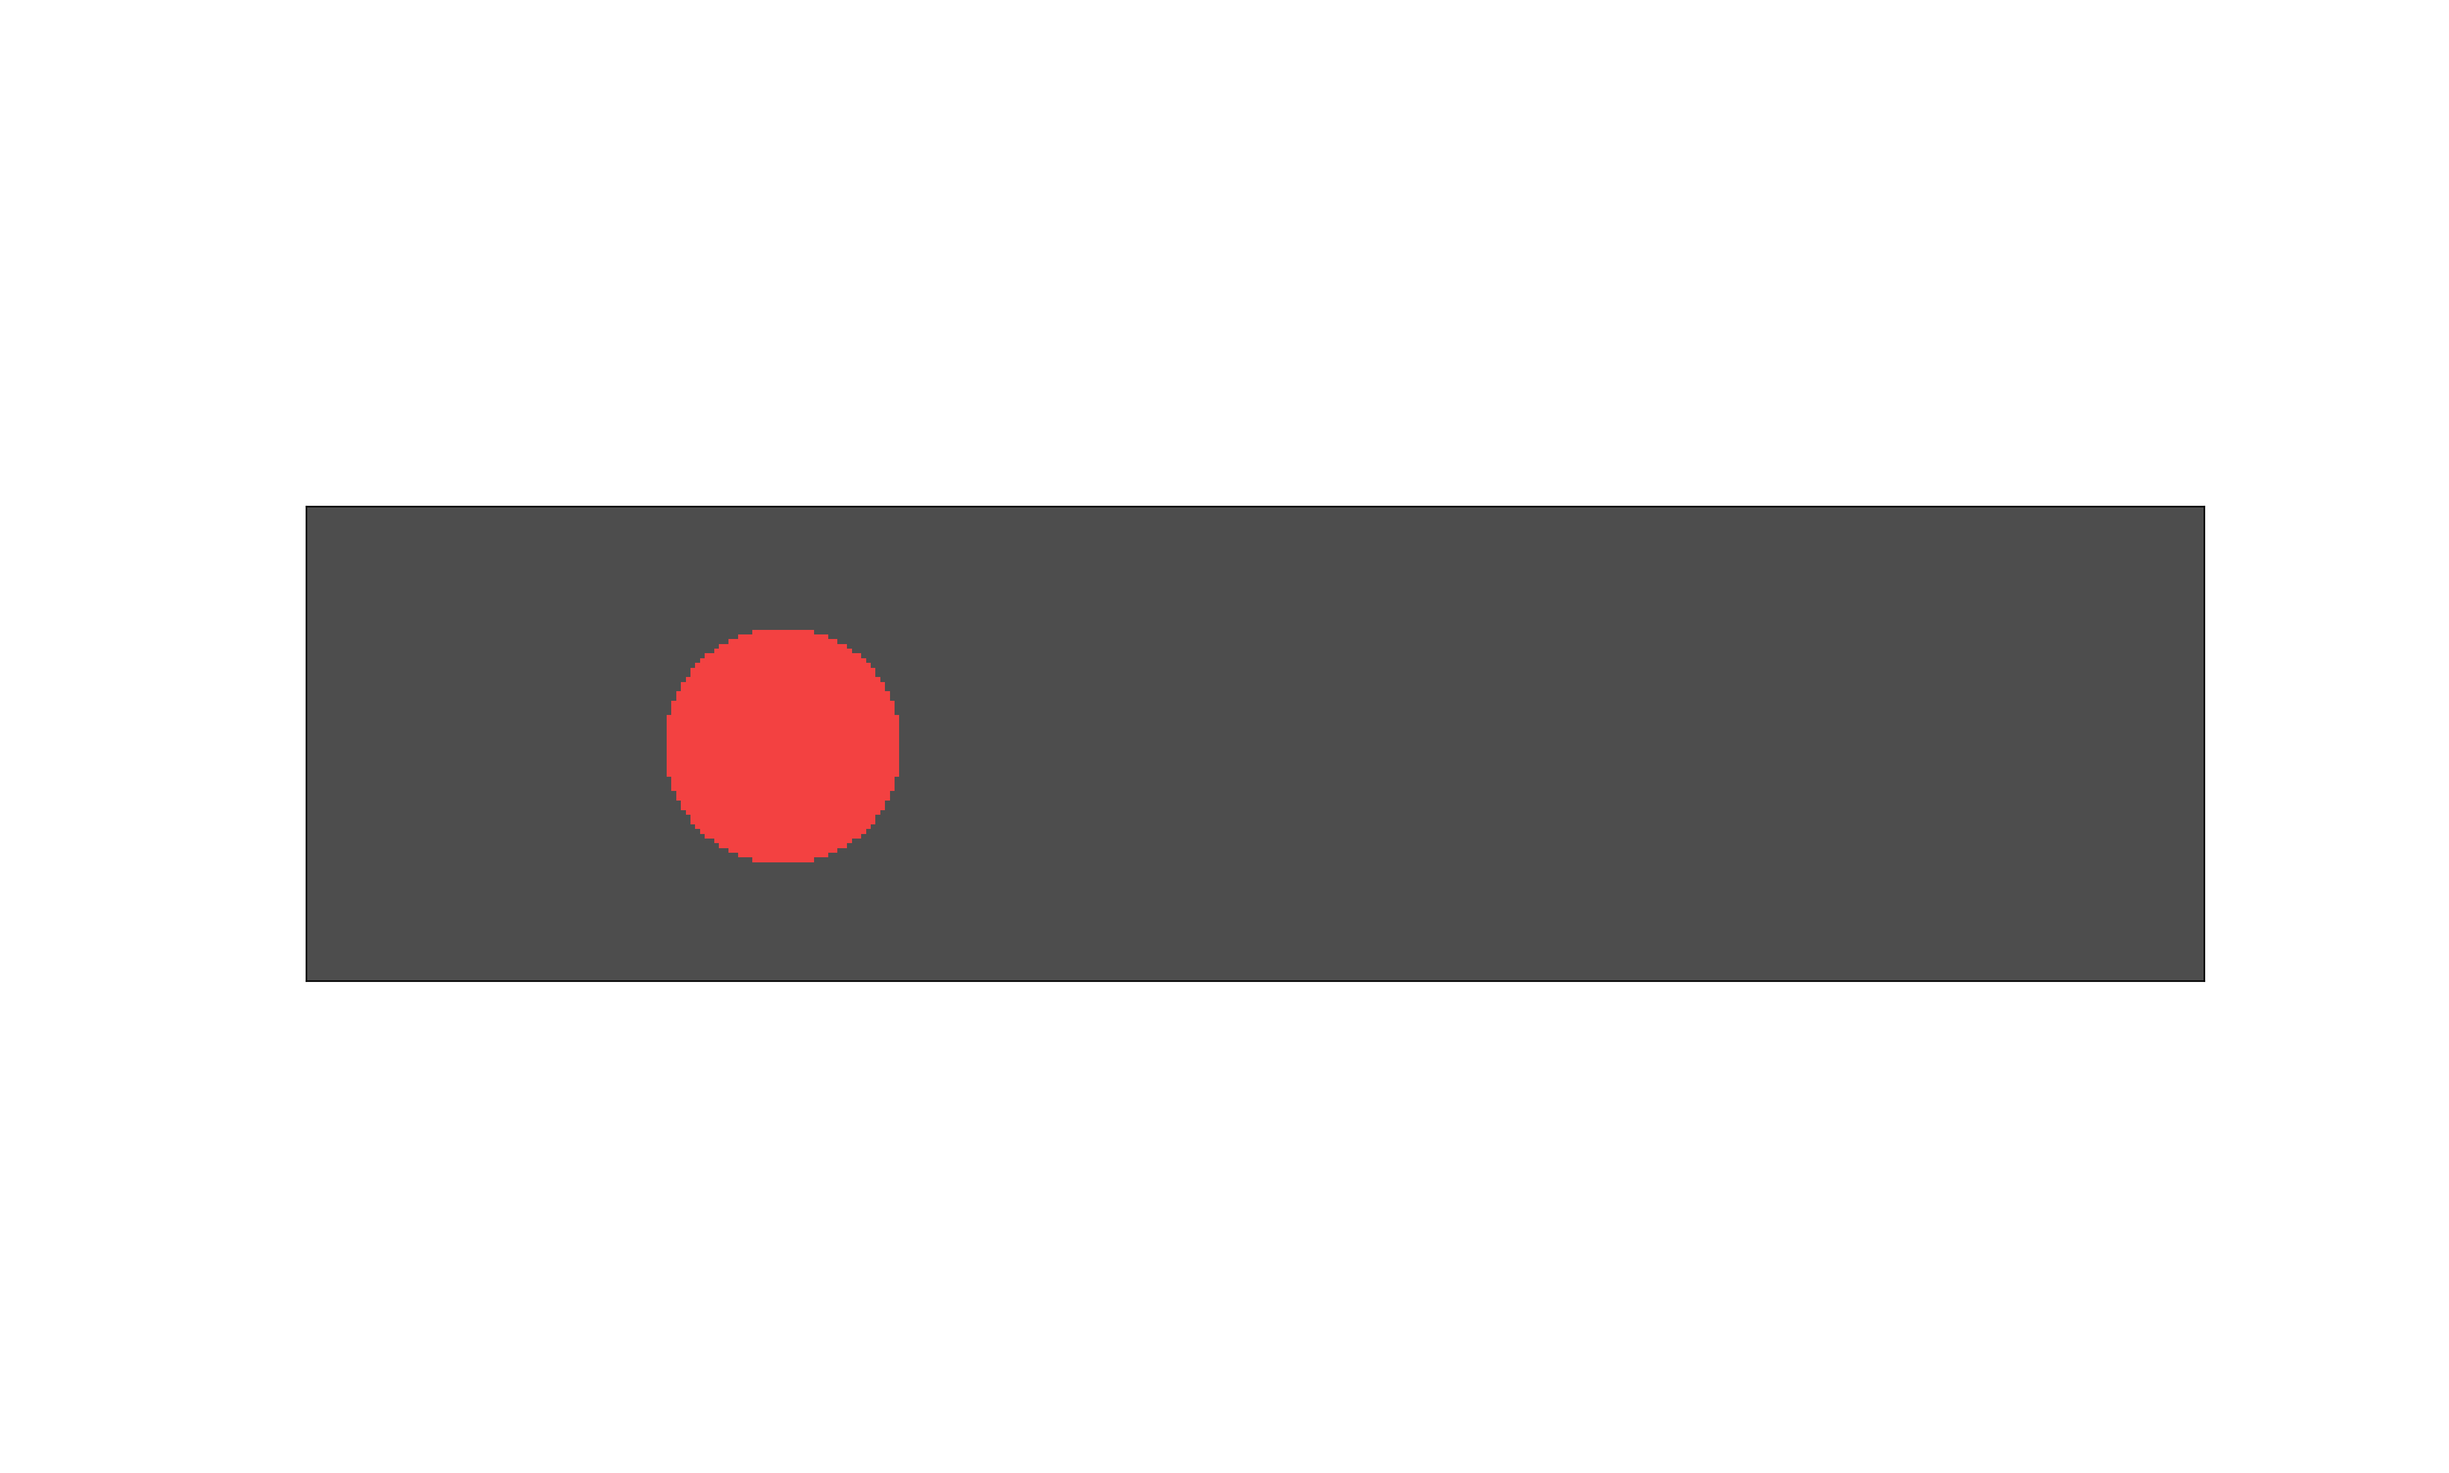
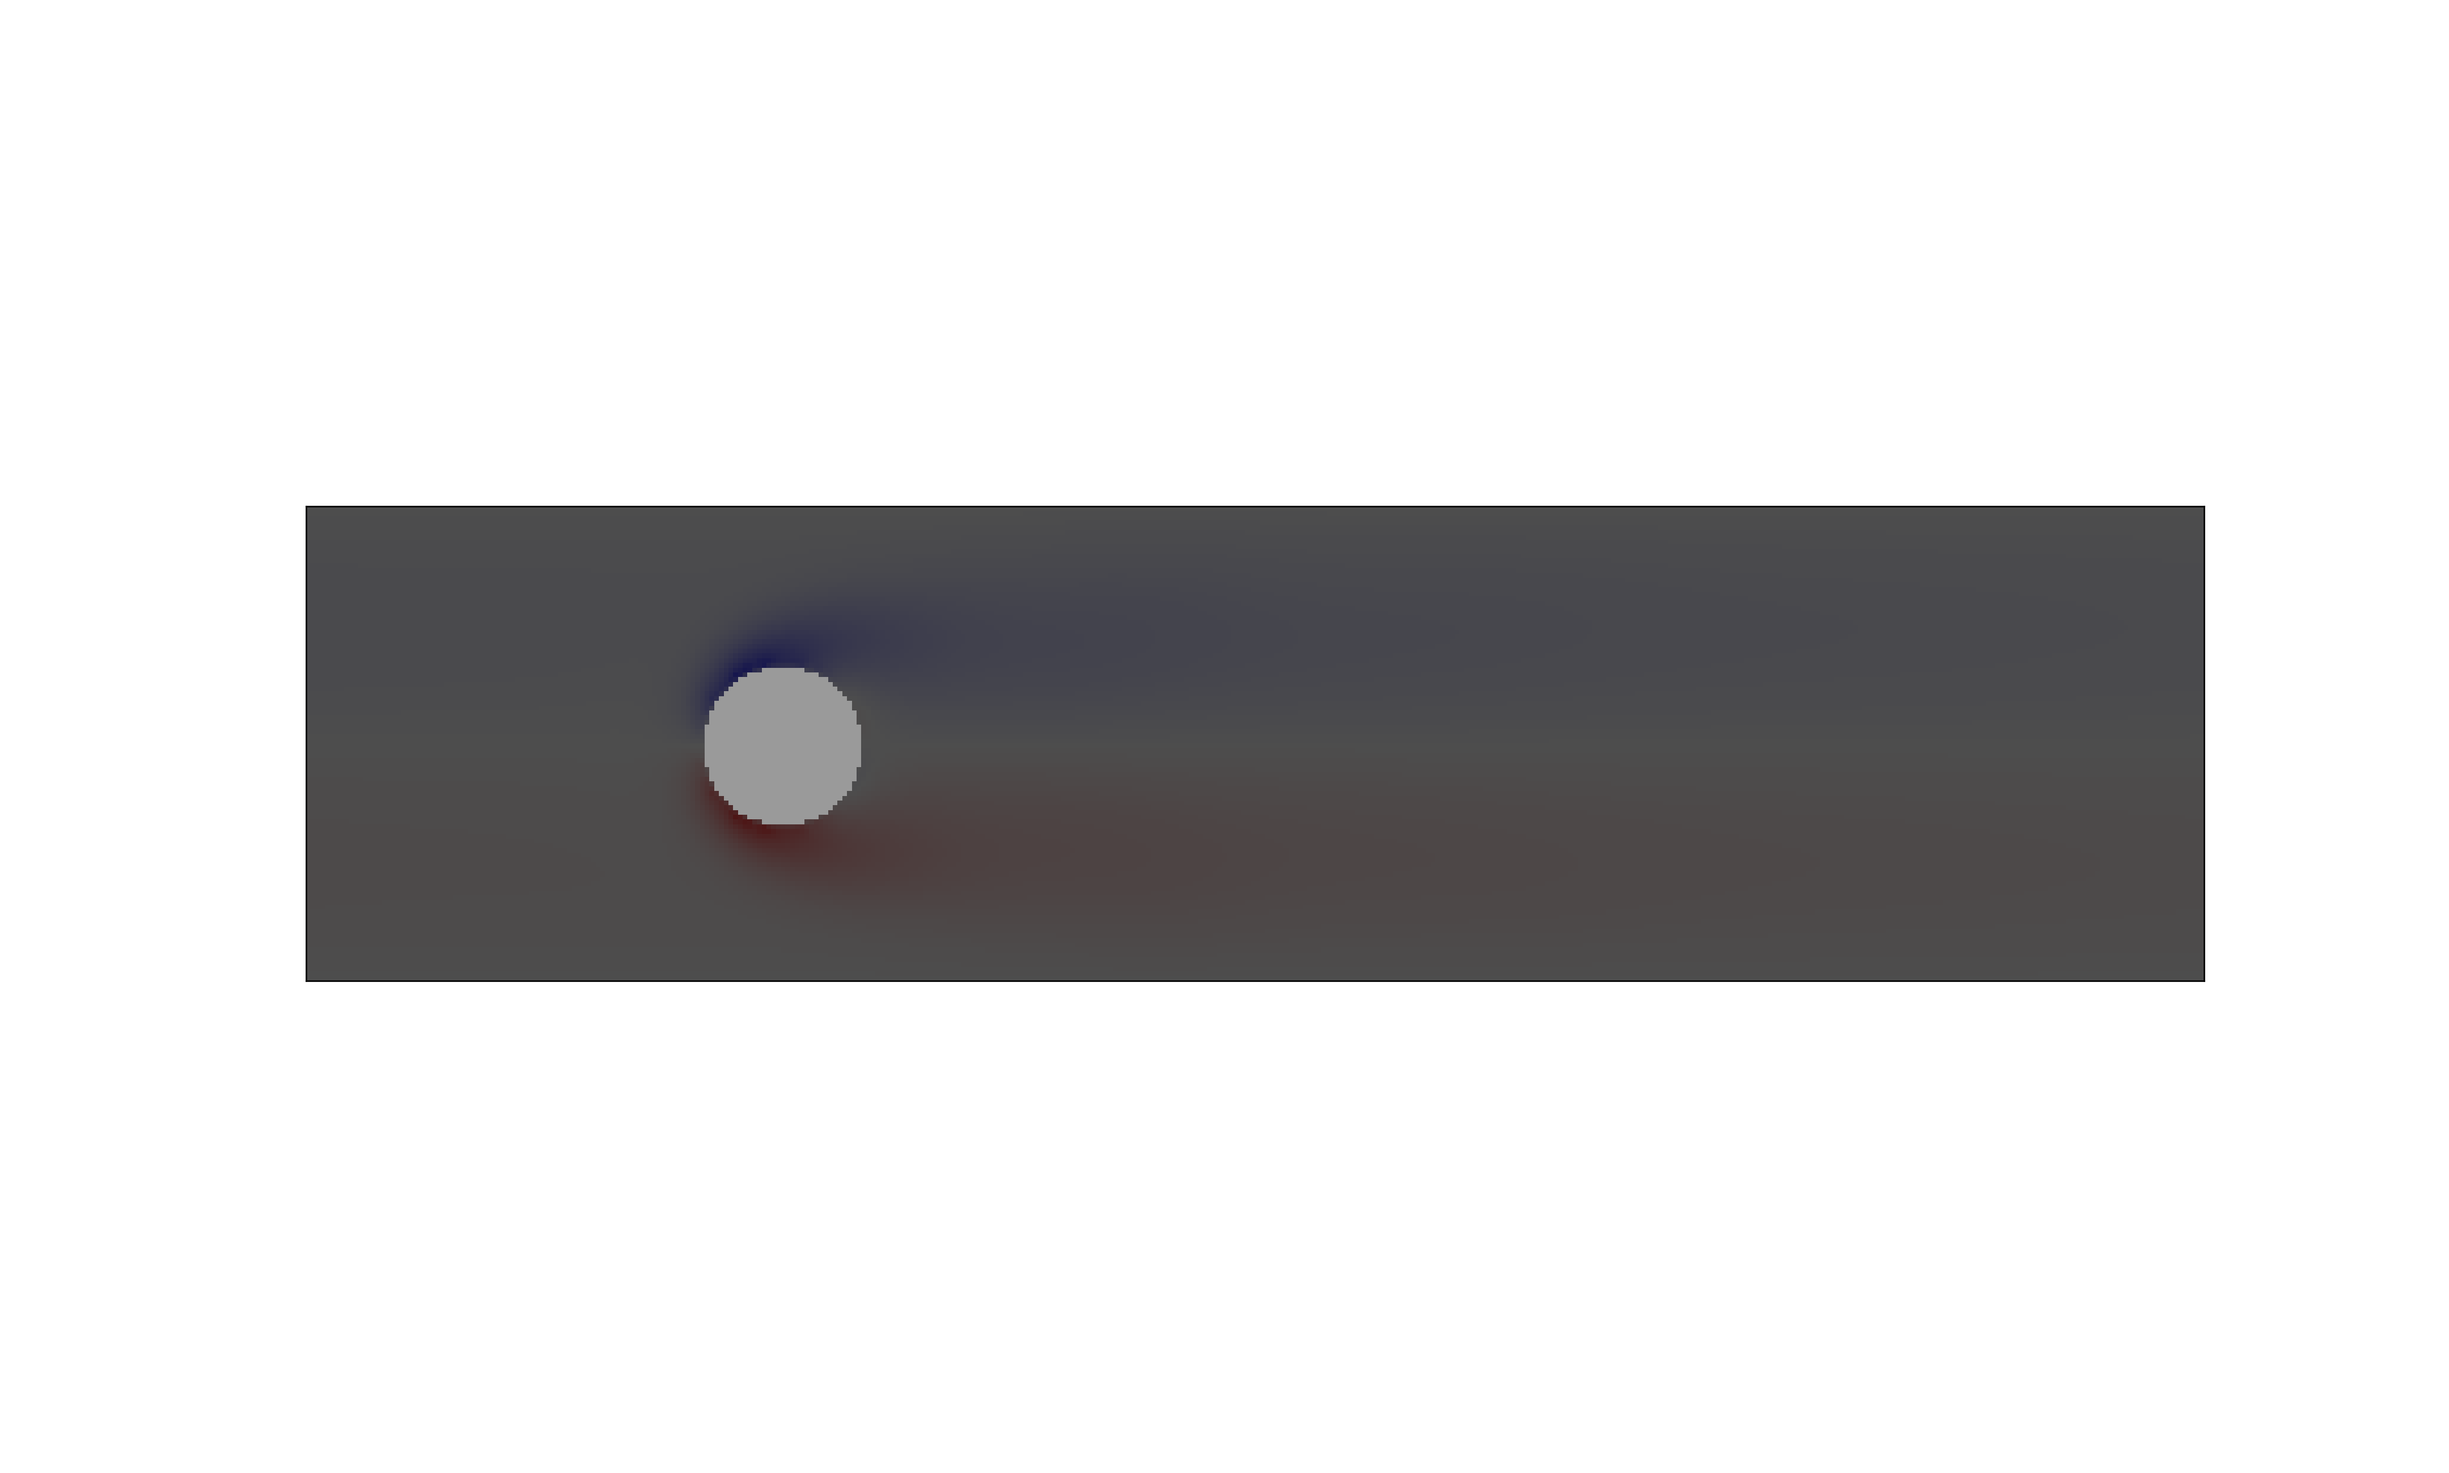
added lift and drag calculation

Changed region(s): [[0.25, 0.4053, 0.375, 0.5924]]

diff --git a/latticeboltzmann.py b/latticeboltzmann.py
@@ -3,10 +3,11 @@ import numpy as np
 import tkinter as tk
 from tkinter import colorchooser, messagebox
 
+
 def get_barrier(shape, Nx, Ny):
     """ Define barrier shapes """
     X, Y = np.meshgrid(range(Nx), range(Ny))
-    
+
     if shape == 'circle':
         barrier = (X - Nx/4)**2 + (Y - Ny/2)**2 < (Ny/4)**2
     elif shape == 'rectangle':
@@ -17,87 +18,91 @@ def get_barrier(shape, Nx, Ny):
         barrier = (X - Nx/4)**2 + (Y - Ny/2)**2 < (Ny/6)**2
     else:
         raise ValueError(f"Unknown shape: {shape}")
-    
+
     return barrier
 
-def run_simulation(shape, simulation_window, speed, fluid_colormap, barrier_color, fluid_type):
+
+def run_simulation(shape, simulation_window, speed, fluid_colormap, barrier_color, fluid_type, lift_label, drag_label):
     """ Lattice Boltzmann Simulation """
-    
+
     def reset():
         simulation_window.destroy()
         root.deiconify()
-    
+
     # Simulation parameters
     Nx = 400    # resolution x-dir
     Ny = 100    # resolution y-dir
     rho0 = 100  # average density
     Nt = 4000   # number of timesteps
-    plotRealTime = True # switch on for plotting as the simulation goes along
-    
+    plotRealTime = True  # switch on for plotting as the simulation goes along
+
     # Set tau based on fluid type
     fluid_types = {'water': 0.6, 'oil': 1.0, 'air': 0.1}
     tau = fluid_types.get(fluid_type, 0.6)
-    
+
     # Lattice speeds / weights
     NL = 9
     idxs = np.arange(NL)
-    cxs = np.array([0, 0, 1, 1, 1, 0,-1,-1,-1])
-    cys = np.array([0, 1, 1, 0,-1,-1,-1, 0, 1])
-    weights = np.array([4/9,1/9,1/36,1/9,1/36,1/9,1/36,1/9,1/36]) # sums to 1
-    
+    cxs = np.array([0, 0, 1, 1, 1, 0, -1, -1, -1])
+    cys = np.array([0, 1, 1, 0, -1, -1, -1, 0, 1])
+    weights = np.array([4/9, 1/9, 1/36, 1/9, 1/36, 1 /
+                       9, 1/36, 1/9, 1/36])  # sums to 1
+
     # Initial Conditions
-    F = np.ones((Ny,Nx,NL)) #* rho0 / NL
+    F = np.ones((Ny, Nx, NL))  # * rho0 / NL
     np.random.seed(42)
-    F += 0.01*np.random.randn(Ny,Nx,NL)
+    F += 0.01*np.random.randn(Ny, Nx, NL)
     X, Y = np.meshgrid(range(Nx), range(Ny))
-    F[:,:,3] += 2 * (1+0.2*np.cos(2*np.pi*X/Nx*4))
-    rho = np.sum(F,2)
+    F[:, :, 3] += 2 * (1+0.2*np.cos(2*np.pi*X/Nx*4))
+    rho = np.sum(F, 2)
     for i in idxs:
-        F[:,:,i] *= rho0 / rho
-    
+        F[:, :, i] *= rho0 / rho
+
     # Select barrier shape
     barrier = get_barrier(shape, Nx, Ny)
-    
+
     # Convert hex color to RGB
     barrier_rgb = tuple(int(barrier_color[i:i+2], 16) / 255 for i in (1, 3, 5))
-    
+
     # Prep figure
-    fig = plt.figure(figsize=(4,2), dpi=80)
-    
+    fig = plt.figure(figsize=(4, 2), dpi=80)
+
     # Simulation Main Loop
     for it in range(Nt):
         print(it)
-        
+
         # Drift
         for i, cx, cy in zip(idxs, cxs, cys):
-            F[:,:,i] = np.roll(F[:,:,i], cx, axis=1)
-            F[:,:,i] = np.roll(F[:,:,i], cy, axis=0)
-        
+            F[:, :, i] = np.roll(F[:, :, i], cx, axis=1)
+            F[:, :, i] = np.roll(F[:, :, i], cy, axis=0)
+
         # Set reflective boundaries
-        bndryF = F[barrier,:]
-        bndryF = bndryF[:,[0,5,6,7,8,1,2,3,4]]
-    
+        bndryF = F[barrier, :]
+        bndryF = bndryF[:, [0, 5, 6, 7, 8, 1, 2, 3, 4]]
+
         # Calculate fluid variables
-        rho = np.sum(F,2)
-        ux  = np.sum(F*cxs,2) / rho
-        uy  = np.sum(F*cys,2) / rho
-        
+        rho = np.sum(F, 2)
+        ux = np.sum(F*cxs, 2) / rho
+        uy = np.sum(F*cys, 2) / rho
+
         # Apply Collision
         Feq = np.zeros(F.shape)
         for i, cx, cy, w in zip(idxs, cxs, cys, weights):
-            Feq[:,:,i] = rho * w * ( 1 + 3*(cx*ux+cy*uy)  + 9*(cx*ux+cy*uy)**2/2 - 3*(ux**2+uy**2)/2 )
-        
+            Feq[:, :, i] = rho * w * \
+                (1 + 3*(cx*ux+cy*uy) + 9*(cx*ux+cy*uy)**2/2 - 3*(ux**2+uy**2)/2)
+
         F += -(1.0/tau) * (F - Feq)
-        
-        # Apply boundary 
-        F[barrier,:] = bndryF
-        
+
+        # Apply boundary
+        F[barrier, :] = bndryF
+
         # plot in real time - color 1/2 particles blue, other half red
         if (plotRealTime and (it % 10) == 0) or (it == Nt-1):
             plt.cla()
             ux[barrier] = 0
             uy[barrier] = 0
-            vorticity = (np.roll(ux, -1, axis=0) - np.roll(ux, 1, axis=0)) - (np.roll(uy, -1, axis=1) - np.roll(uy, 1, axis=1))
+            vorticity = (np.roll(ux, -1, axis=0) - np.roll(ux, 1, axis=0)) - \
+                (np.roll(uy, -1, axis=1) - (np.roll(uy, 1, axis=1)))
             vorticity[barrier] = np.nan
             vorticity = np.ma.array(vorticity, mask=barrier)
             plt.imshow(vorticity, cmap=fluid_colormap)
@@ -106,54 +111,75 @@ def run_simulation(shape, simulation_window, speed, fluid_colormap, barrier_colo
             ax = plt.gca()
             ax.invert_yaxis()
             ax.get_xaxis().set_visible(False)
-            ax.get_yaxis().set_visible(False)    
-            ax.set_aspect('equal')    
-            
+            ax.get_yaxis().set_visible(False)
+            ax.set_aspect('equal')
+
             # Overlay the barrier with the chosen color
             barrier_overlay = np.zeros((Ny, Nx, 3))
             barrier_overlay[..., 0] = barrier_rgb[0] * barrier
             barrier_overlay[..., 1] = barrier_rgb[1] * barrier
             barrier_overlay[..., 2] = barrier_rgb[2] * barrier
             plt.imshow(barrier_overlay, alpha=0.7)
-            
+
             plt.pause(0.1 / speed.get())
-    
+
+    # Calculate lift and drag Forces
+    lift_force = np.sum(2 * (F[:, :, 1] - F[:, :, 5]) * barrier)
+    drag_force = np.sum(2 * (F[:, :, 3] - F[:, :, 7]) * barrier)
+
+    # Update the labels with the calculated forces
+    lift_label.config(text=f"Lift Force: {lift_force:.2f}")
+    drag_label.config(text=f"Drag Force: {drag_force:.2f}")
+
     # Save figure
-    plt.savefig('latticeboltzmann.png',dpi=240)
+    plt.savefig('latticeboltzmann.png', dpi=240)
     plt.show()
 
 # Simulation function
+
+
 def start_simulation(shape, speed, fluid_colormap, barrier_color, fluid_type):
     root.withdraw()  # Hide the main GUI window
 
-    #new Tk instance for the simulation window
+    # New Tk instance for the simulation window
     simulation_window = tk.Toplevel(root)
     simulation_window.title("Lattice Boltzmann Simulation")
-    
+
+    # Labels to display lift and drag forces
+    lift_label = tk.Label(simulation_window, text="Lift Force: Calculating...")
+    lift_label.pack()
+    drag_label = tk.Label(simulation_window, text="Drag Force: Calculating...")
+    drag_label.pack()
+
     # Run the simulation
-    run_simulation(shape, simulation_window, speed, fluid_colormap, barrier_color, fluid_type)
+    run_simulation(shape, simulation_window, speed, fluid_colormap,
+                   barrier_color, fluid_type, lift_label, drag_label)
+
 
 def choose_color(title):
     color_code = colorchooser.askcolor(title=title)[1]
     return color_code
 
+
 def choose_colormap(title):
     colormaps = sorted(m for m in plt.cm.datad if not m.endswith("_r"))
     colormap_window = tk.Toplevel(root)
     colormap_window.title(title)
-    
+
     colormap_var = tk.StringVar(value=colormaps[0])
-    
+
     for cmap in colormaps:
-        tk.Radiobutton(colormap_window, text=cmap, variable=colormap_var, value=cmap).pack(anchor='w')
-    
+        tk.Radiobutton(colormap_window, text=cmap,
+                       variable=colormap_var, value=cmap).pack(anchor='w')
+
     def select_colormap():
         colormap_window.destroy()
-    
+
     tk.Button(colormap_window, text="Select", command=select_colormap).pack()
-    
+
     root.wait_window(colormap_window)
     return colormap_var.get()
+
 
 # GUI SET UP
 root = tk.Tk()
@@ -170,19 +196,24 @@ barrier_color_var = tk.StringVar(value='#808080')  # Default to gray
 fluid_type_var = tk.StringVar(value='water')  # Default to water
 
 for shape in shapes:
-    tk.Radiobutton(root, text=shape.capitalize(), variable=shape_var, value=shape).pack()
+    tk.Radiobutton(root, text=shape.capitalize(),
+                   variable=shape_var, value=shape).pack()
 
 tk.Label(root, text="Select Simulation Speed:").pack()
-speed = tk.Scale(root, from_=1, to=10, orient=tk.HORIZONTAL, length=200, variable=speed_var)
+speed = tk.Scale(root, from_=1, to=10, orient=tk.HORIZONTAL,
+                 length=200, variable=speed_var)
 speed.pack()
 
-tk.Button(root, text="Choose Barrier Color", command=lambda: barrier_color_var.set(choose_color("Select Barrier Color"))).pack()
+tk.Button(root, text="Choose Barrier Color", command=lambda: barrier_color_var.set(
+    choose_color("Select Barrier Color"))).pack()
 
 tk.Label(root, text="Select Fluid Type:").pack()
 fluid_types = ["water", "oil", "air"]
 for fluid in fluid_types:
-    tk.Radiobutton(root, text=fluid.capitalize(), variable=fluid_type_var, value=fluid).pack()
+    tk.Radiobutton(root, text=fluid.capitalize(),
+                   variable=fluid_type_var, value=fluid).pack()
 
-tk.Button(root, text="Start Simulation", command=lambda: start_simulation(shape_var.get(), speed_var, fluid_colormap_var.get(), barrier_color_var.get(), fluid_type_var.get())).pack()
+tk.Button(root, text="Start Simulation", command=lambda: start_simulation(shape_var.get(
+), speed_var, fluid_colormap_var.get(), barrier_color_var.get(), fluid_type_var.get())).pack()
 
 root.mainloop()
